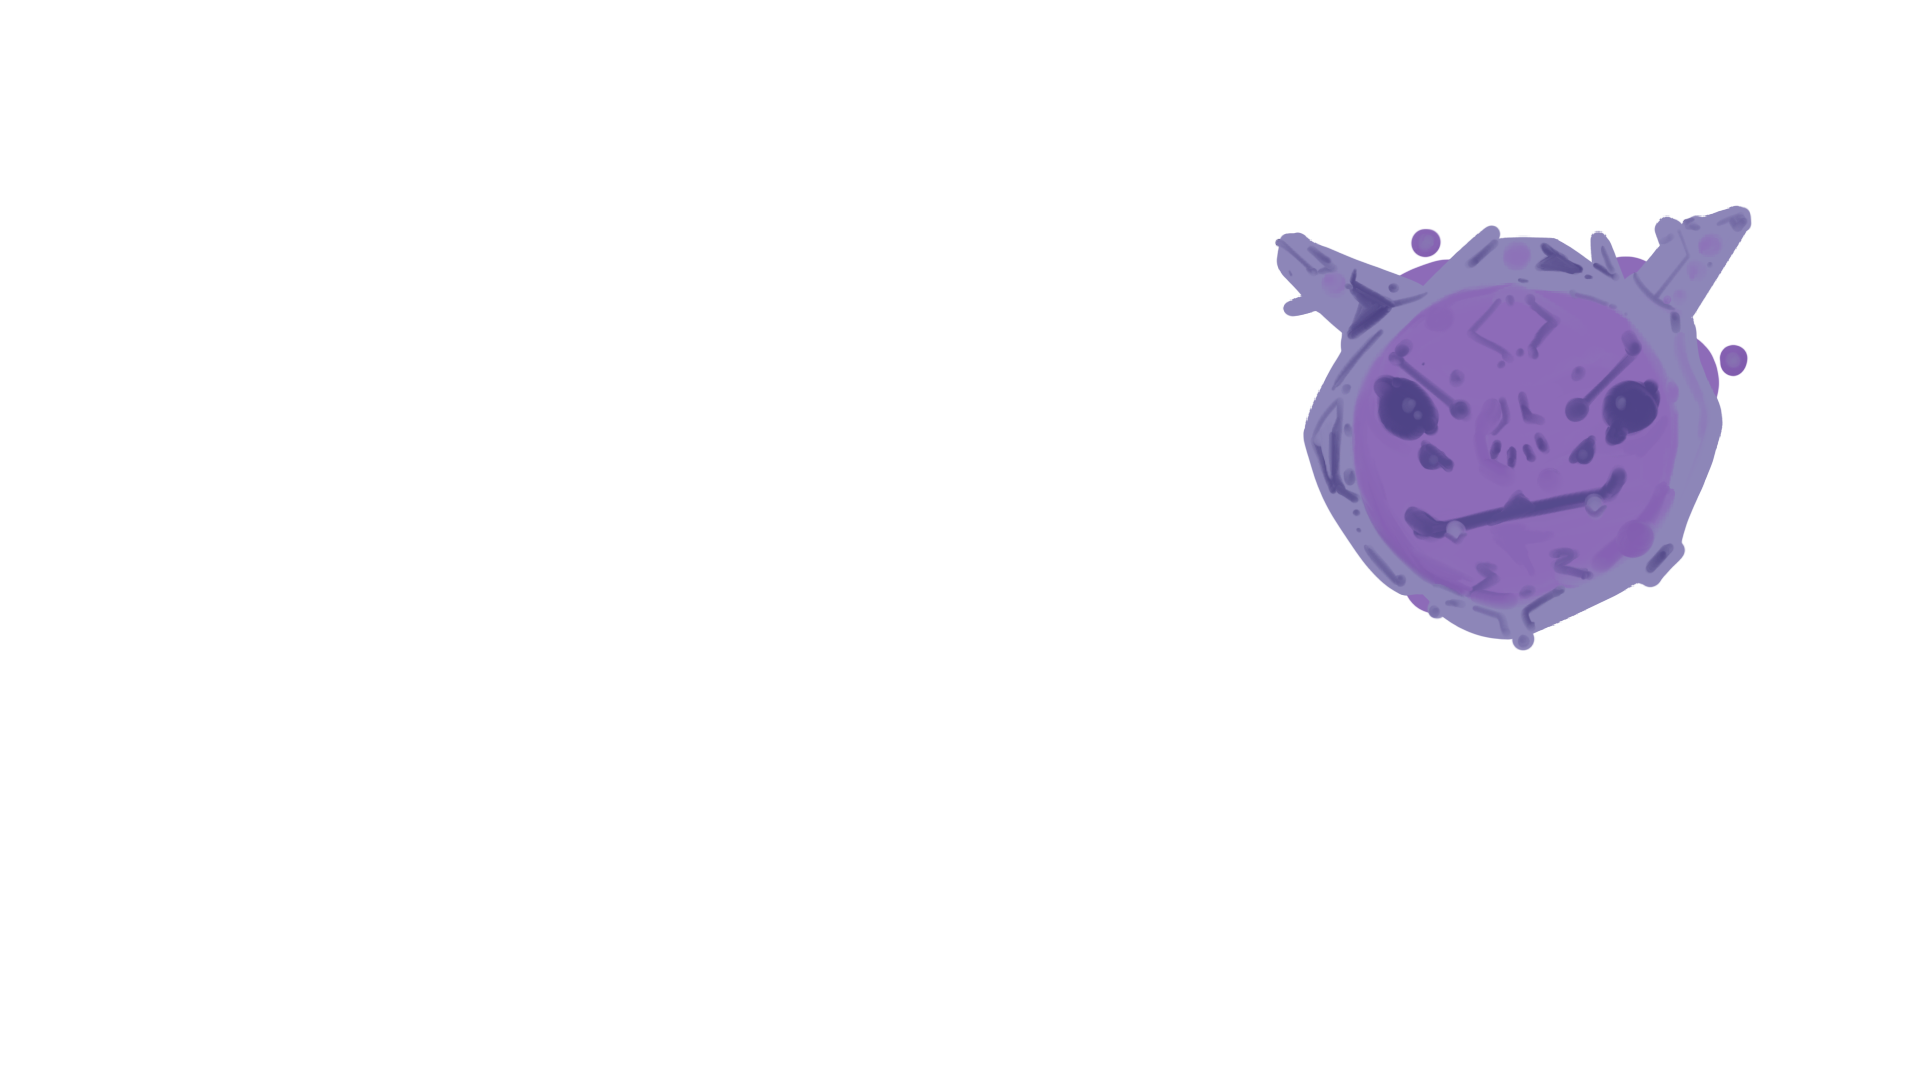
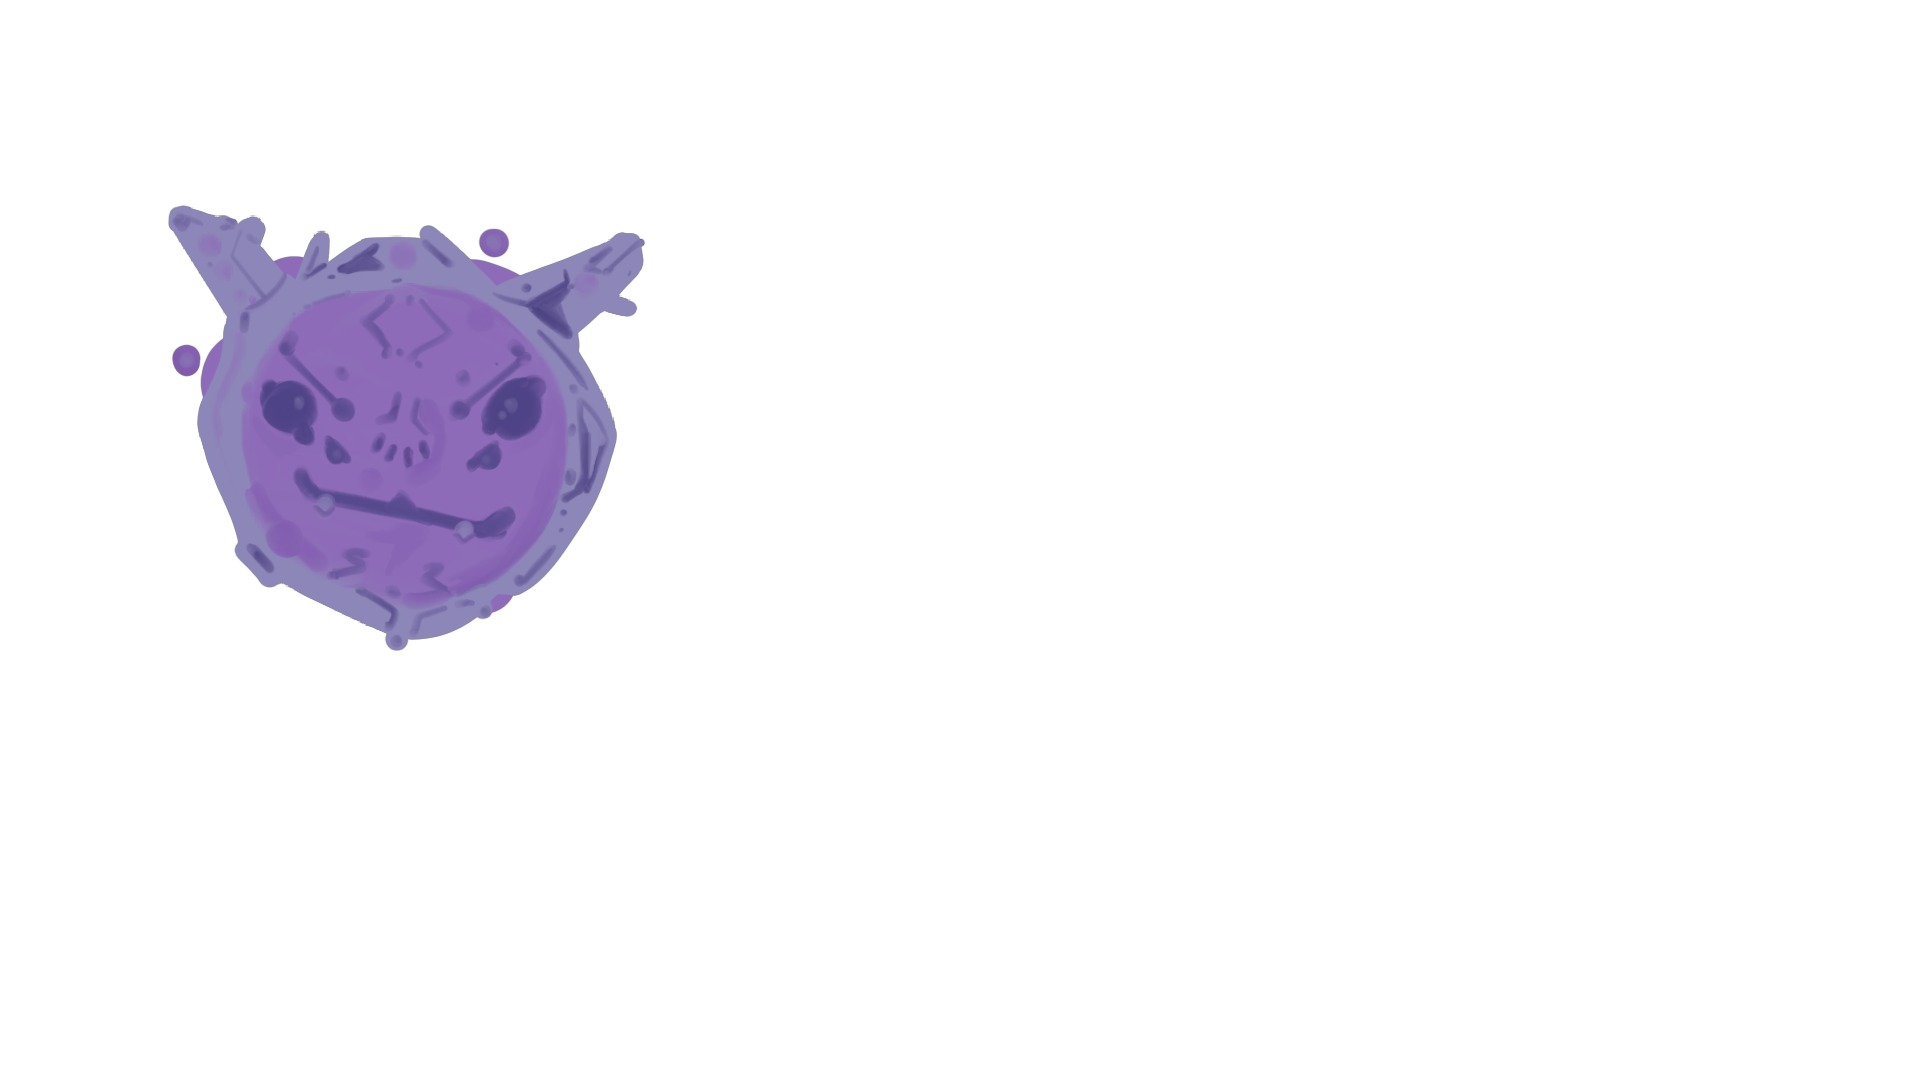
ending screen

Changed region(s): [[0.6562, 0.1833, 0.9375, 0.6111], [0.0625, 0.1833, 0.3438, 0.6111]]

diff --git a/device/template-p5-project/js/script.js b/device/template-p5-project/js/script.js
@@ -11,7 +11,7 @@ var randomAngle = [0, 90, 180, 270];
 var isPipeGame = false;
 var isGuessGame = false;
 var isloadingScreen = false;
-var isFailded = true;
+var isFailded = false;
 var waterTime = false;
 var isLoaded = false  ;
 var hint = false;
@@ -41,12 +41,15 @@ var img,
   root1,
   root2,
   root3,
+  root4,
   leaf1,
   leaf2,
   leaf3,
+  leaf4,
   con1,
   con2,
   con3,
+  alien,
   beep,
   waterSound,
   fontRegular;
@@ -121,9 +124,13 @@ function preload() {
   root1 = loadImage("./assets/images/root1.png");
   root2 = loadImage("./assets/images/root2.png");
   root3 = loadImage("./assets/images/root3.png");
+  root4 = loadImage("./assets/images/root4.png");
   leaf1 = loadImage("./assets/images/leaf1.png");
   leaf2 = loadImage("./assets/images/leaf2.png");
   leaf3 = loadImage("./assets/images/leaf3.png");
+  leaf4 = loadImage("./assets/images/leaf4.png");
+  alien = loadImage("./assets/images/alien.png");
+
   con1 = loadImage("./assets/images/con1.png");
   con2 = loadImage("./assets/images/con2.png");
   con3 = loadImage("./assets/images/con3.png");
@@ -727,6 +734,32 @@ function loadingScreen() {
  pop();
 }
 function ending(){
+  image(root1, 750, 360, 1700, 750);
+  image(root2, 750, 370, 1700, 750);
+  image(root3, 750, 380, 1700, 750);
+  image(root4,width/2,height/2,width,height)
+  image(leaf1, 700, 340, 2000, 1000);
+  image(leaf2, 750, 340, 2000, 1000);
+  image(leaf3, 950, 375, 1700, 750);
+  image(leaf4,width/2,height/2,width,height)
+  image(alien,-60,height/2,width,height)
+  push()
+  noStroke()
+  fill(141,134,184,150)
+  rect(width-500,height/2,600,200,10)
+  fill(255,0,0)
+  textSize(55)
+  textFont(fontRegular)
+  text("incoming message ",122,710)
+  textSize(25)
+
+  text("Your root-computer networks are ours! We are ",800,319)
+  text("converting your precious CO2 into deadly Oxigen.",800,349)
+  textSize(35)
+  
+  text("Prepare for planetary invasion.",819,399)
+  
+  pop()
 }
 class pipeBlocks {
   constructor(x, y, pattern) {
